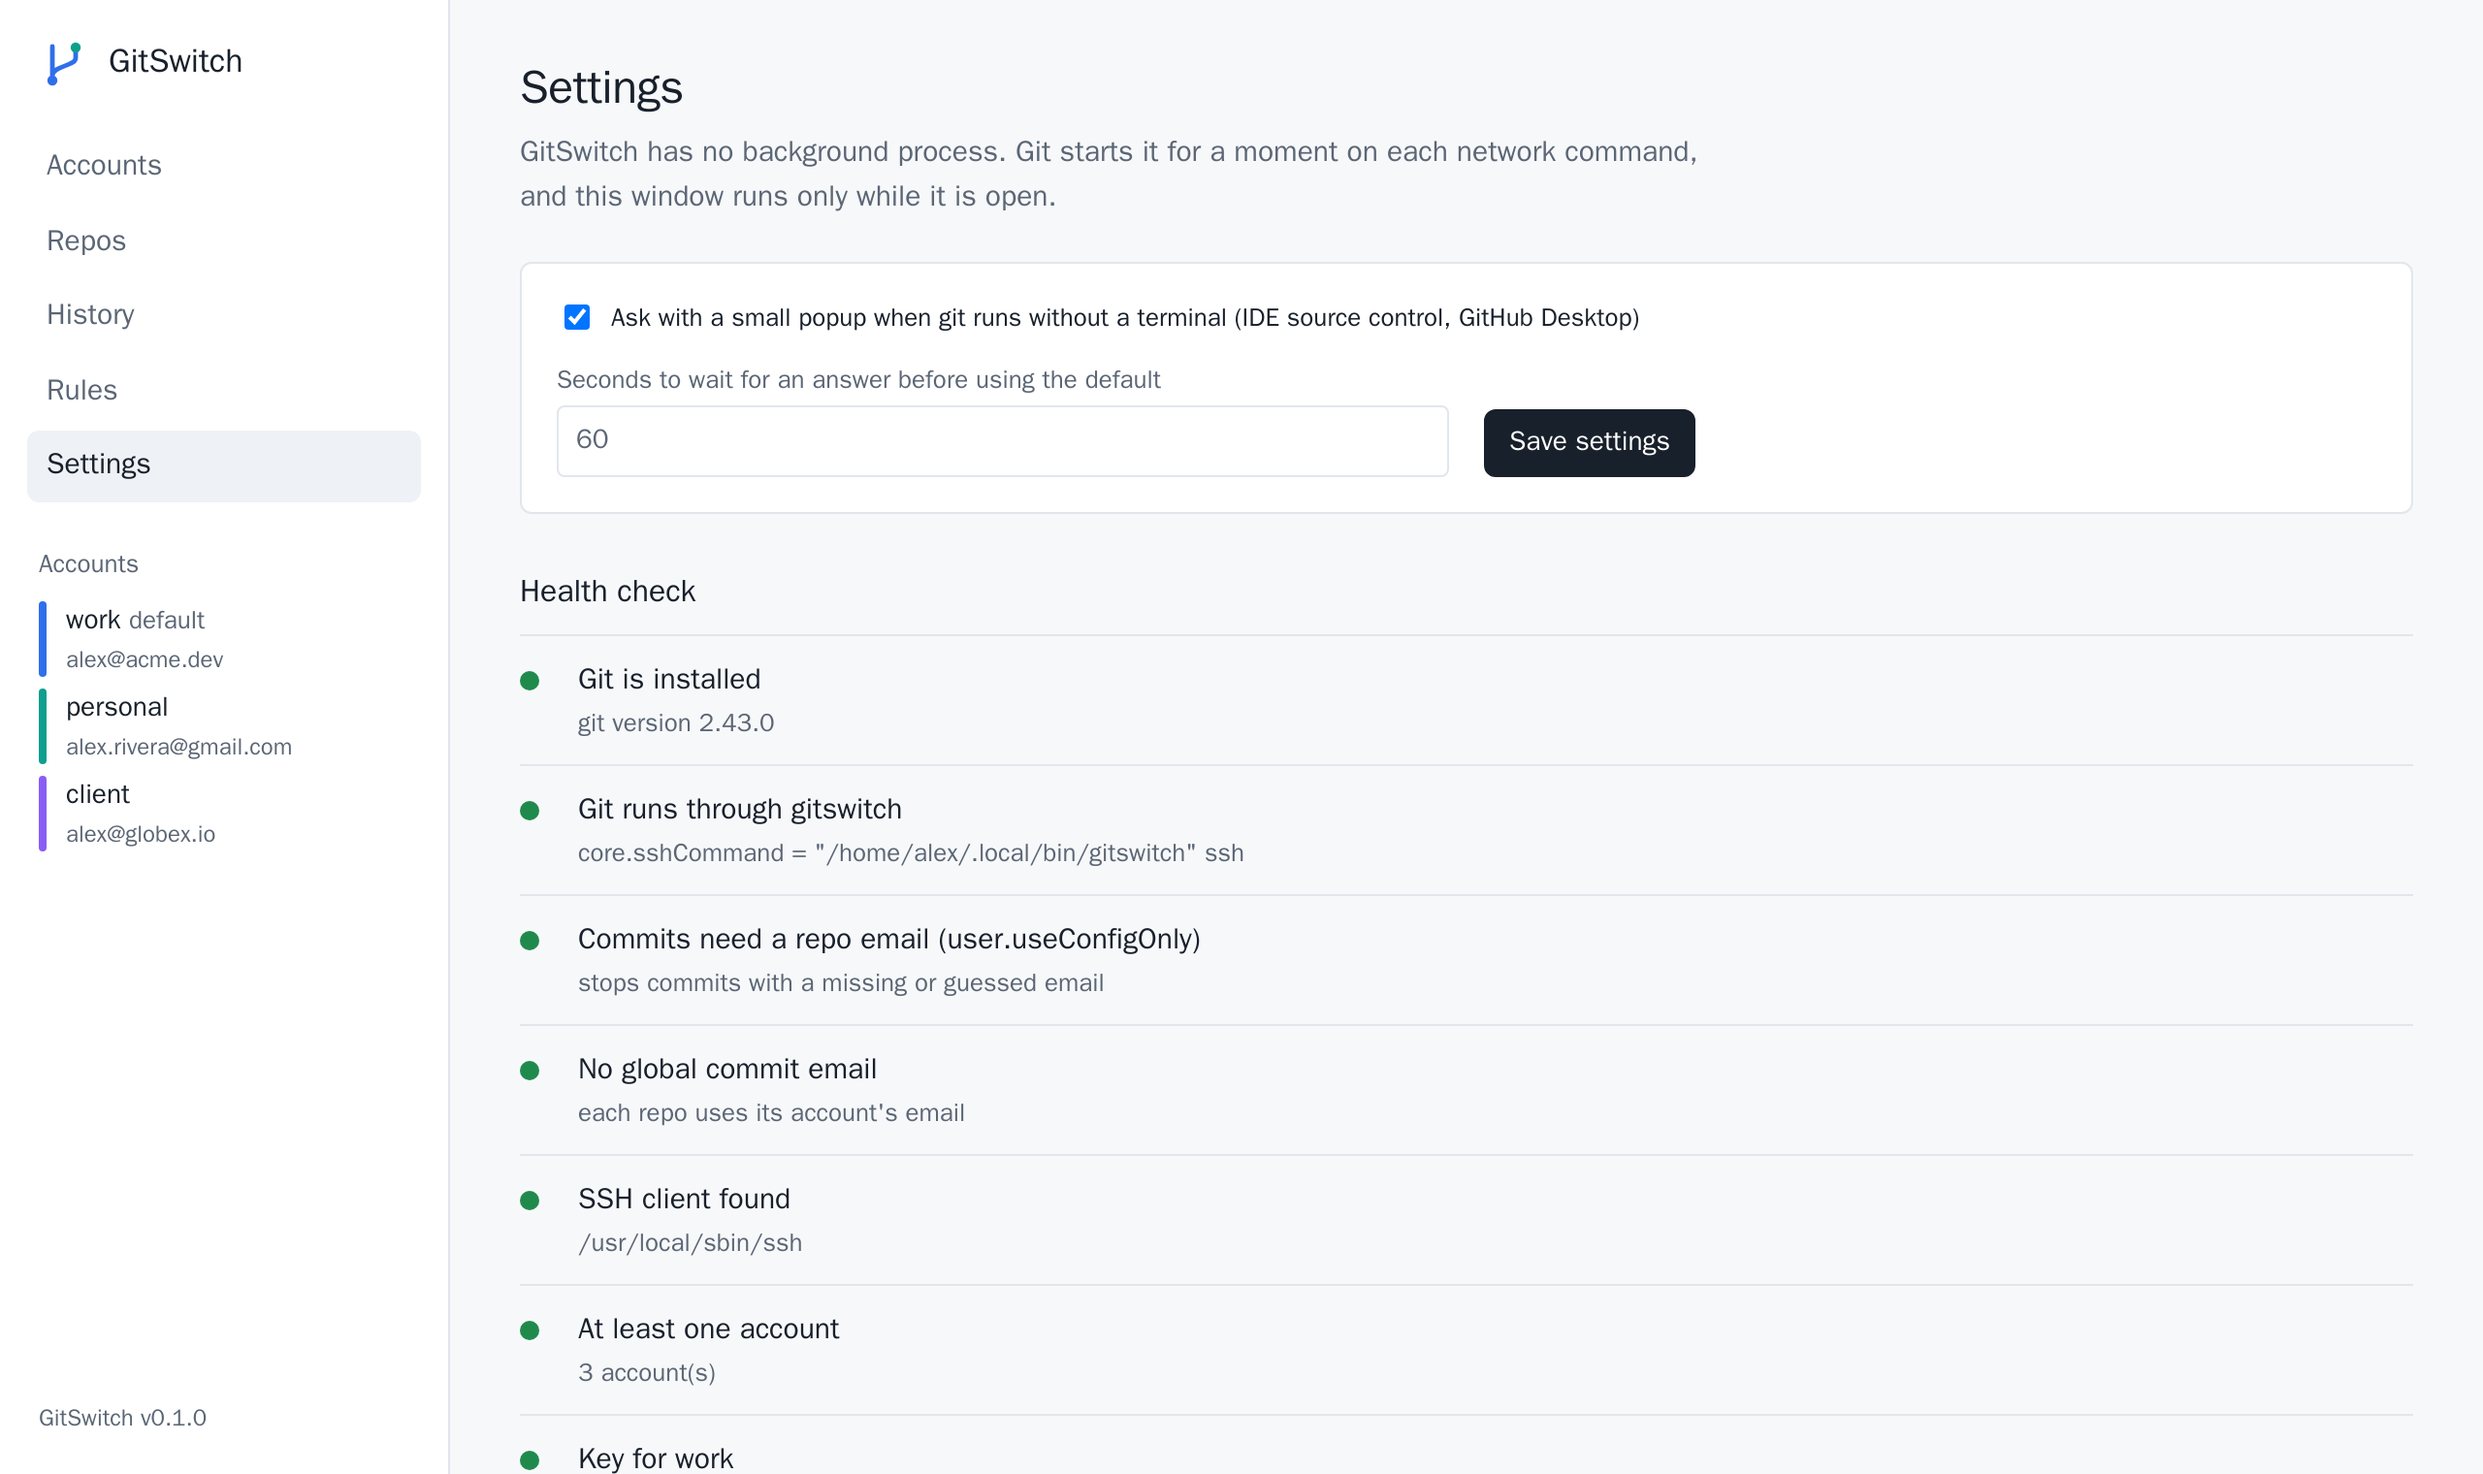
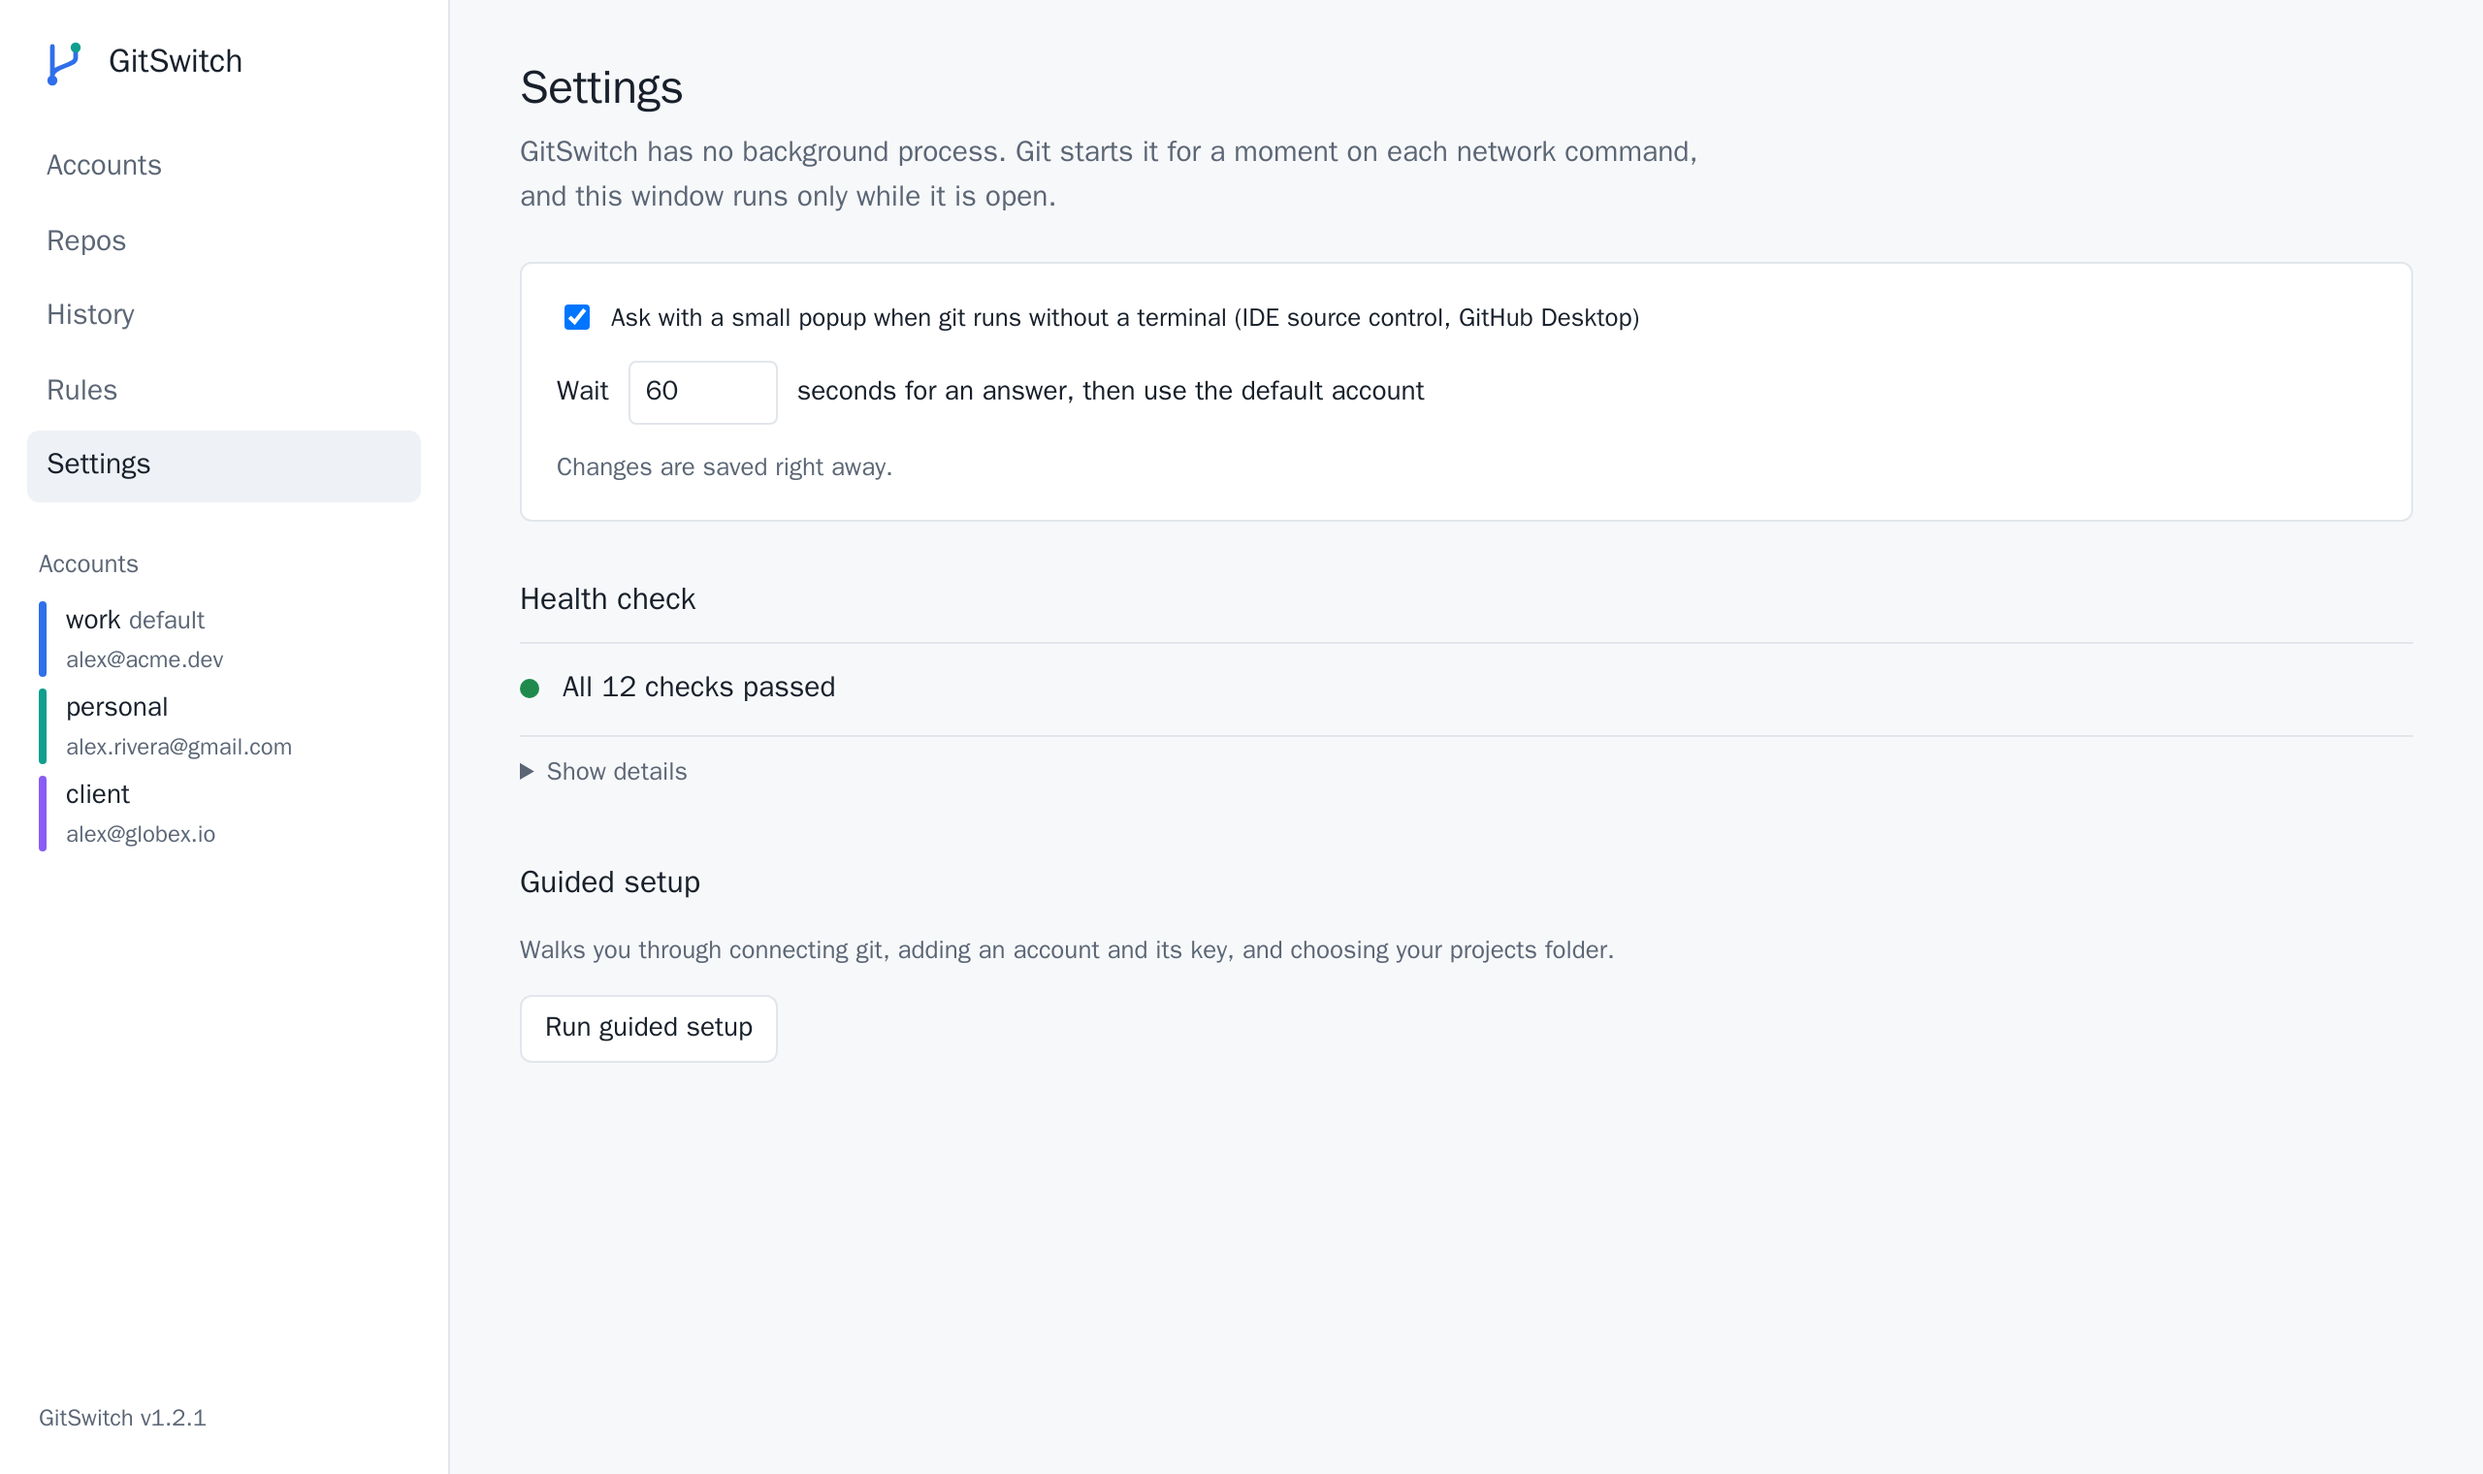
Regenerate the desktop app screenshots from a script
test/screenshots/run.sh builds a demo (test/screenshots/demo) that serves
the real page and API with made-up accounts and repos in a throwaway home
folder, and Playwright's Chromium captures every page in light and dark at
2560x1520. All ten pictures now show the same version and the current
pages: the More menu, the collapsed health check, commit details and the
repo name picker. CONTRIBUTING says when to run it.

diff --git a/test/screenshots/demo/main.go b/test/screenshots/demo/main.go
@@ -1,0 +1,172 @@
+// Command demo serves the desktop app's page and API over HTTP with made-up
+// accounts and repos, for the README screenshots (see ../run.sh). It
+// builds its own home folder and changes nothing outside it.
+//
+//	demo <empty folder> <address>
+package main
+
+import (
+	"fmt"
+	"io"
+	"log"
+	"net/http"
+	"os"
+	"os/exec"
+	"path/filepath"
+	"strings"
+	"time"
+
+	"github.com/macdipu/gitswitch/internal/bootstrap"
+	"github.com/macdipu/gitswitch/internal/interfaces/desktop/api"
+)
+
+var home string
+
+func main() {
+	if len(os.Args) != 3 {
+		log.Fatal("usage: demo <empty folder> <address>")
+	}
+	home, _ = filepath.Abs(os.Args[1])
+	for k, v := range map[string]string{"HOME": home, "USERPROFILE": home, "XDG_CONFIG_HOME": filepath.Join(home, ".config"),
+		"XDG_CACHE_HOME": filepath.Join(home, ".cache"), "GIT_CONFIG_NOSYSTEM": "1", "GIT_TERMINAL_PROMPT": "0", "GITSWITCH_TEST_NO_SYSTEM": "1"} {
+		os.Setenv(k, v)
+	}
+	os.Unsetenv("GIT_CONFIG_GLOBAL")
+	seed()
+	log.Printf("demo GitSwitch %s on http://%s", bootstrap.Version, os.Args[2])
+	log.Fatal(http.ListenAndServe(os.Args[2], api.Handler(bootstrap.New(false, io.Discard), nil)))
+}
+
+func git(dir string, env []string, args ...string) string {
+	cmd := exec.Command("git", args...)
+	cmd.Dir, cmd.Env = dir, append(os.Environ(), env...)
+	out, err := cmd.CombinedOutput()
+	if err != nil {
+		log.Fatalf("git %v: %v\n%s", args, err, out)
+	}
+	return strings.TrimSpace(string(out))
+}
+
+func write(path, text string, mode os.FileMode) {
+	if err := os.MkdirAll(filepath.Dir(path), 0o755); err != nil {
+		log.Fatal(err)
+	}
+	if err := os.WriteFile(path, []byte(text), mode); err != nil {
+		log.Fatal(err)
+	}
+}
+
+type person struct{ id, name, email, user string }
+
+var (
+	work     = person{"work", "Alex Rivera", "alex@acme.dev", "alex-acme"}
+	personal = person{"personal", "Alex Rivera", "alex.rivera@gmail.com", "alexrivera"}
+	client   = person{"client", "Alex Rivera", "alex@globex.io", "alex-globex"}
+)
+
+func seed() {
+	g := func(args ...string) { git(home, nil, append([]string{"config", "--global"}, args...)...) }
+	// Connected to git, as after `gitswitch install`: the hook program and
+	// the desktop app sit where install puts them.
+	bin := filepath.Join(home, ".local", "bin")
+	write(filepath.Join(bin, "gitswitch"), "", 0o755)
+	write(filepath.Join(bin, "gitswitch-app"), "", 0o755)
+	g("core.sshCommand", `"`+filepath.ToSlash(filepath.Join(bin, "gitswitch"))+`" ssh`)
+	g("user.useConfigOnly", "true")
+	g("init.defaultBranch", "main")
+	for _, p := range []person{work, personal, client} {
+		key := filepath.Join(home, ".ssh", "id_ed25519_gitswitch_"+p.id)
+		write(key, "demo key\n", 0o600)
+		write(key+".pub", "ssh-ed25519 AAAAC3NzaC1lZDI1NTE5AAAAIDemoKeyOnlyForScreenshots "+p.email+"\n", 0o644)
+		for k, v := range map[string]string{"name": p.name, "email": p.email, "host": "github.com", "key": key, "user": p.user} {
+			g("gitswitch-account."+p.id+"."+k, v)
+		}
+	}
+	// GitHub's published host key, as after a first `gitswitch test`.
+	write(filepath.Join(home, ".ssh", "known_hosts"), "github.com ssh-ed25519 AAAAC3NzaC1lZDI1NTE5AAAAIOMqqnkVzrm0SdG6UOoqKLsabgH5C9okWi0dh2l9GKJl\n", 0o644)
+	g("gitswitch.default", "work")
+	g("--add", "gitswitch.rule", "owner:acme-corp=work")
+	g("--add", "gitswitch.rule", "owner:globex=client")
+	g("--add", "gitswitch.rule", "folder:"+filepath.Join(home, "personal")+"=personal")
+	code := filepath.Join(home, "code")
+	g("--add", "gitswitch.scanFolder", code)
+
+	acmeAPI(filepath.Join(code, "acme-api"))
+	simple(filepath.Join(code, "acme-web"), "git@github.com:acme-corp/web.git", work, "Landing page")
+	simple(filepath.Join(code, "globex-portal"), "git@github.com:globex/portal.git", client, "Customer portal")
+	// Outside the projects folder, added by hand; the folder rule picks its account.
+	dot := filepath.Join(home, "personal", "dotfiles")
+	simple(dot, "git@github.com:alexrivera/dotfiles.git", personal, "zsh and git settings")
+	git(dot, nil, "config", "--unset", "gitswitch.account")
+	g("--add", "gitswitch.repo", dot)
+}
+
+// commit makes a commit as p, days ago, with an optional body.
+func commit(dir string, p person, ago time.Duration, file, subject string, body ...string) string {
+	write(filepath.Join(dir, file), subject+"\n", 0o644)
+	git(dir, nil, "add", file)
+	when := time.Now().Add(-ago).Format(time.RFC3339)
+	msg := subject
+	if len(body) > 0 {
+		msg += "\n\n" + strings.Join(body, "\n")
+	}
+	env := []string{"GIT_AUTHOR_NAME=" + p.name, "GIT_AUTHOR_EMAIL=" + p.email, "GIT_COMMITTER_NAME=" + p.name,
+		"GIT_COMMITTER_EMAIL=" + p.email, "GIT_AUTHOR_DATE=" + when, "GIT_COMMITTER_DATE=" + when}
+	git(dir, env, "commit", "-q", "-m", msg)
+	return git(dir, nil, "rev-parse", "HEAD")
+}
+
+func repo(dir, url string, p person) {
+	if err := os.MkdirAll(dir, 0o755); err != nil {
+		log.Fatal(err)
+	}
+	git(dir, nil, "init", "-q")
+	git(dir, nil, "remote", "add", "origin", url)
+	git(dir, nil, "config", "gitswitch.account", p.id)
+	git(dir, nil, "config", "user.name", p.name)
+	git(dir, nil, "config", "user.email", p.email)
+}
+
+// pushed marks commits as pushed: origin's branch points at them.
+func pushed(dir, branch, hash string) {
+	git(dir, nil, "update-ref", "refs/remotes/origin/"+branch, hash)
+	git(dir, nil, "branch", "-q", "--set-upstream-to=origin/"+branch, branch)
+}
+
+func simple(dir, url string, p person, subject string) {
+	repo(dir, url, p)
+	commit(dir, p, 90*24*time.Hour, "README.md", "Initial commit")
+	h := commit(dir, p, 20*24*time.Hour, "index.md", subject)
+	pushed(dir, "main", h)
+}
+
+func acmeAPI(dir string) {
+	day := 24 * time.Hour
+	repo(dir, "git@github.com:acme-corp/api.git", work)
+	commit(dir, work, 400*day, "main.go", "Initial API skeleton")
+	commit(dir, work, 395*day, "health.go", "Add health endpoint")
+	commit(dir, work, 390*day, "go.mod", "Bump Go to 1.27")
+	git(dir, nil, "switch", "-q", "-c", "feature/auth")
+	commit(dir, work, 385*day, "auth.go", "Add JWT middleware",
+		"Every route under /v1 now needs a bearer token. Tokens are", "checked against the signing key in AUTH_KEY.")
+	commit(dir, personal, 382*day, "token.go", "Fix token expiry check")
+	commit(dir, work, 380*day, "auth_test.go", "Add login handler tests")
+	git(dir, nil, "switch", "-q", "main")
+	when := time.Now().Add(-378 * day).Format(time.RFC3339)
+	git(dir, []string{"GIT_AUTHOR_NAME=" + work.name, "GIT_AUTHOR_EMAIL=" + work.email, "GIT_COMMITTER_NAME=" + work.name,
+		"GIT_COMMITTER_EMAIL=" + work.email, "GIT_AUTHOR_DATE=" + when, "GIT_COMMITTER_DATE=" + when},
+		"merge", "-q", "--no-ff", "-m", "Merge branch 'feature/auth'", "feature/auth")
+	git(dir, nil, "update-ref", "refs/remotes/origin/feature/auth", git(dir, nil, "rev-parse", "feature/auth"))
+	git(dir, nil, "switch", "-q", "-c", "feature/billing")
+	commit(dir, work, 370*day, "invoice.go", "Add invoice model")
+	b := commit(dir, work, 365*day, "email.go", "Send invoice emails")
+	git(dir, nil, "update-ref", "refs/remotes/origin/feature/billing", b)
+	git(dir, nil, "switch", "-q", "main")
+	m := git(dir, nil, "rev-parse", "HEAD")
+	pushed(dir, "main", m)
+	commit(dir, work, 2*time.Hour, "ratelimit.go", "Rate-limit public routes",
+		"Anonymous clients get 60 requests a minute per IP; signed-in", "clients get 600. Limits are kept in memory and reset on restart.",
+		"", "- 429 responses carry Retry-After", "- /health is never limited")
+	commit(dir, personal, 40*time.Minute, "README.md", "Update README badges")
+	fmt.Println("demo repo:", dir)
+}

diff --git a/CONTRIBUTING.md b/CONTRIBUTING.md
@@ -147,6 +147,13 @@ If you want to build one:
   comment, like the existing workflows.
 - CI must pass on Linux, macOS and Windows.
 
+## Screenshots
+
+`test/screenshots/run.sh [version]` regenerates the desktop app pictures in
+`docs/images` (every page, light and dark) from made-up accounts and repos,
+with Docker. Run it after a change to the desktop page, and commit the
+images with the change.
+
 ## Publishing a release (maintainers)
 
 1. Push a tag: `git tag v1.0.0 && git push origin v1.0.0`.
